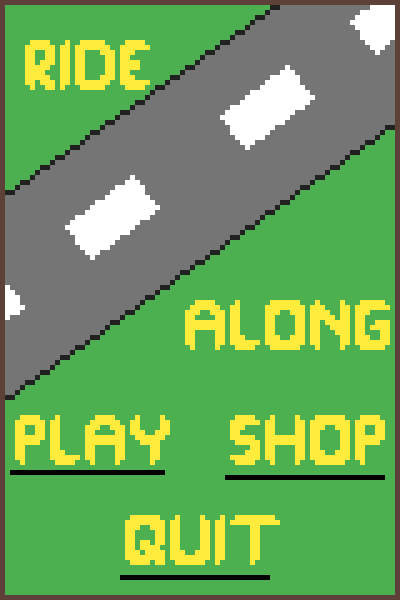
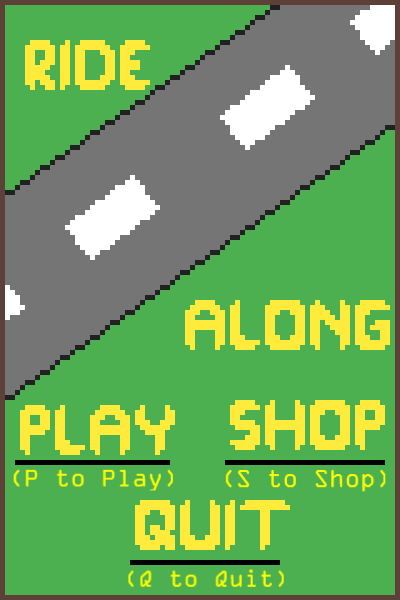
Atualizei tela incial

Changed region(s): [[0.03, 0.66, 0.99, 0.99]]

diff --git a/tela_inicial.py b/tela_inicial.py
@@ -24,17 +24,25 @@ def tela_inicial(screen):
         
         # Ajusta a velocidade do jogo.
         clock.tick(FPS)
-        
+                      
         # Processa os eventos (mouse, teclado, botão, etc).
         for event in pygame.event.get():
+            
+                
             # Verifica se foi fechado.
             if event.type == pygame.QUIT:
                 state = QUIT
                 running = False
-
+                
             if event.type == pygame.KEYUP:
-                state = GAME
-                running = False
+                if event.key == pygame.K_q:
+                    state = QUIT
+                    running = False
+                    
+            if event.type == pygame.KEYUP:
+                if event.key == pygame.K_p:
+                    state = GAME
+                    running = False
                     
         # A cada loop, redesenha o fundo e os sprites
         screen.fill(BLACK)
